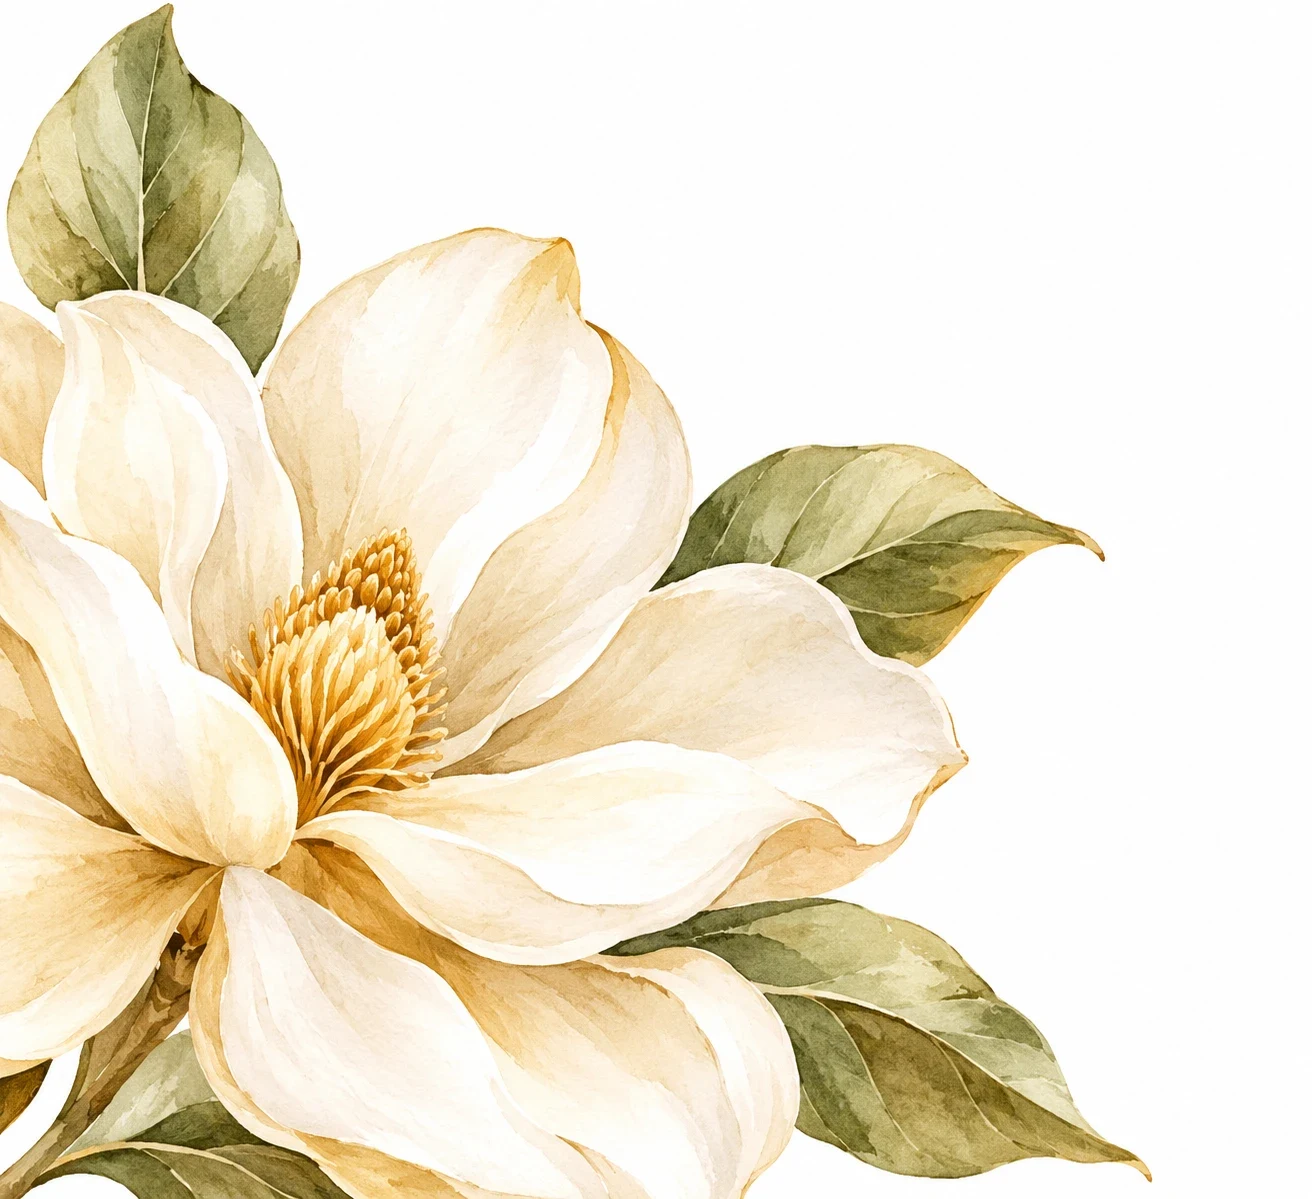
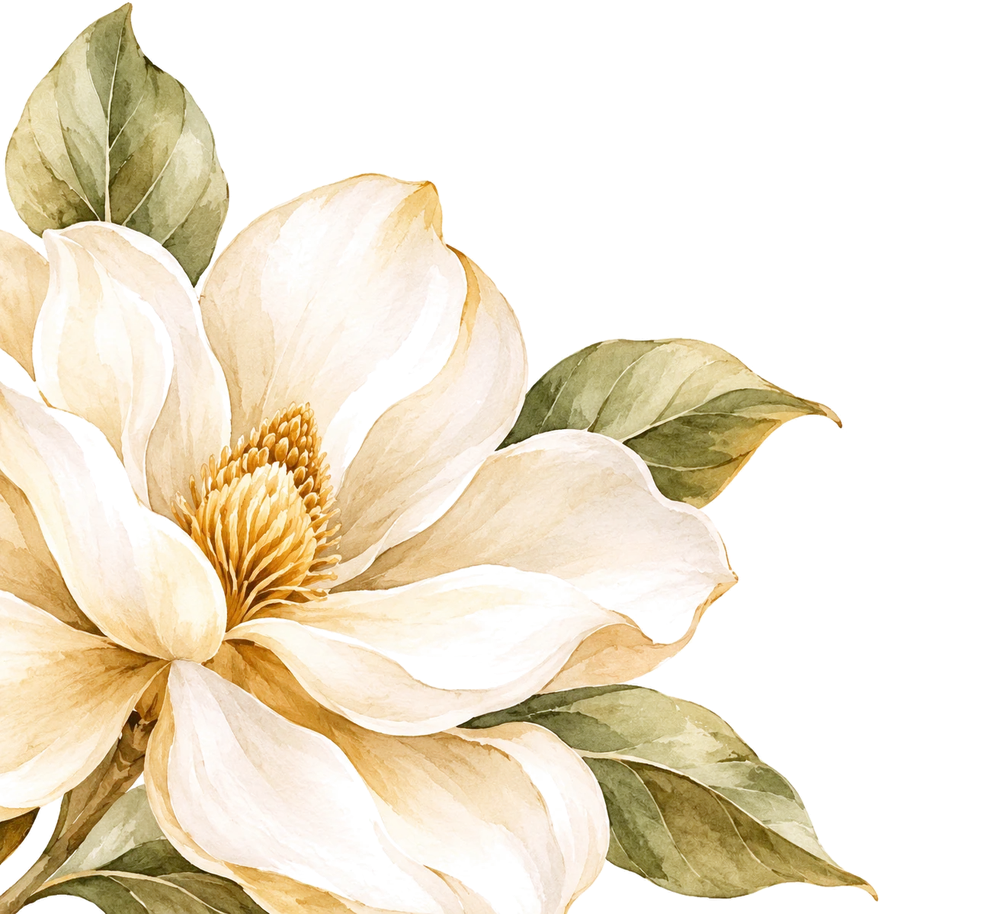
Fix white background on images

Changed region(s): [[0.279, 0.4595, 0.31, 0.5208], [0.217, 0.4902, 0.248, 0.5208]]

diff --git a/index.html b/index.html
@@ -20,7 +20,7 @@ body.locked{overflow:hidden}
 
 /* ---------- shared ---------- */
 .frame{position:relative;container-type:inline-size;margin:0 auto}
-.frame img.border{display:block;width:100%;height:auto;mix-blend-mode:multiply}
+.frame img.border{display:block;width:100%;height:auto}
 .names{position:absolute;inset:0;display:flex;flex-direction:column;align-items:center;justify-content:center;text-align:center;
   font-family:var(--serif);font-style:italic;font-weight:600;font-size:10.4cqw;line-height:1.08;color:var(--gold)}
 .names .amp{font-family:var(--script);font-style:normal;font-weight:400;font-size:.8em;line-height:1;margin:.12em 0;color:var(--gold-d)}
@@ -57,7 +57,7 @@ section{position:relative;padding:54px 28px;text-align:center}
 .title::before,.title::after{content:"";flex:0 0 clamp(14px,6vw,38px);height:1px;background:var(--gold);transform:scaleX(0);transition:transform 1.2s .35s ease}
 .title::before{transform-origin:right}.title::after{transform-origin:left}
 .title.in::before,.title.in::after{transform:scaleX(1)}
-.floral{position:absolute;pointer-events:none;height:auto;mix-blend-mode:multiply}
+.floral{position:absolute;pointer-events:none;height:auto}
 
 /* hero */
 .hero{padding-top:42px}
@@ -68,7 +68,7 @@ section{position:relative;padding:54px 28px;text-align:center}
 .lead{font-style:italic;font-weight:600;font-size:27px;line-height:1.4;color:var(--gold)}
 .info{overflow:hidden;background:radial-gradient(ellipse 70% 40% at 50% 38%,rgba(230,201,140,.22),transparent 70%)}
 .info{padding-bottom:130px}
-.info .corner-img{position:absolute;pointer-events:none;mix-blend-mode:multiply;width:118px;height:auto}
+.info .corner-img{position:absolute;pointer-events:none;width:118px;height:auto}
 .info .title{font-size:clamp(17px,5vw,22px);gap:10px}
 .orn-row{display:flex;align-items:center;justify-content:center;gap:14px;color:var(--gold);font-size:26px;margin:-6px 0 10px}
 .orn-row i{flex:0 0 60px;height:1px;background:linear-gradient(90deg,transparent,var(--gold))}
@@ -112,7 +112,7 @@ section{position:relative;padding:54px 28px;text-align:center}
 .count b{display:block;font-weight:600;font-size:32px;line-height:1.1;color:var(--gold-d)}
 .count span{font-weight:700;font-size:12px;letter-spacing:.16em;text-transform:uppercase}
 .cal{position:relative;width:min(100%,460px);aspect-ratio:1448/1086;padding:9% 17%;margin:0 auto;display:flex;flex-direction:column;justify-content:center}
-.cal::before{content:"";position:absolute;inset:0;background:url(assets/cal-frame.webp) center/100% 100% no-repeat;mix-blend-mode:multiply;pointer-events:none}
+.cal::before{content:"";position:absolute;inset:0;background:url(assets/cal-frame.webp?v=2) center/100% 100% no-repeat;pointer-events:none}
 .cal>*{position:relative}
 .cal h4{font-weight:700;font-size:19px;letter-spacing:.04em;color:var(--olive);margin-bottom:4px}
 .cal .grid{display:grid;grid-template-columns:repeat(7,1fr);gap:2px 0;font-size:15px;font-weight:600;color:var(--olive)}
@@ -121,7 +121,7 @@ section{position:relative;padding:54px 28px;text-align:center}
 .cal .grid .hit{color:#fff;position:relative;isolation:isolate}
 .cal .grid .hit::before{content:"♥";position:absolute;left:50%;top:50%;transform:translate(-50%,-52%);font-size:38px;line-height:1;color:#bf9156;z-index:-1}
 .lnk{background:none;border:0;border-bottom:1px solid var(--olive);color:var(--olive);font-family:var(--serif);font-weight:700;font-size:17px;cursor:pointer;margin-top:14px;padding:0 2px}
-.flourish{display:block;width:280px;height:auto;margin:34px auto 0;mix-blend-mode:multiply}
+.flourish{display:block;width:280px;height:auto;margin:34px auto 0}
 
 /* venue */
 .venue-name{font-weight:700;font-size:32px;line-height:1.15;color:var(--olive);margin:2px 0 18px}
@@ -192,7 +192,7 @@ footer p{font-style:italic;font-weight:600;font-size:24px;line-height:1.4;color:
   <div class="cv">
     <div class="kicker">You are invited</div>
     <div class="frame">
-      <img class="border" src="assets/frame.webp" alt="">
+      <img class="border" src="assets/frame.webp?v=2" alt="">
       <div class="names">Abdulrahman<span class="amp">&amp;</span>Buthaina</div>
     </div>
     <div class="cdate">
@@ -208,18 +208,18 @@ footer p{font-style:italic;font-weight:600;font-size:24px;line-height:1.4;color:
 <main id="page">
 
   <section class="hero">
-    <img class="floral" src="assets/magnolia-b.webp" alt="" style="top:-20px;right:-10px;width:170px;opacity:.38;transform:scaleX(-1)">
+    <img class="floral" src="assets/magnolia-b.webp?v=2" alt="" style="top:-20px;right:-10px;width:170px;opacity:.38;transform:scaleX(-1)">
     <div class="eyebrow reveal">Welcome to our engagement</div>
     <div class="frame reveal">
-      <img class="border" src="assets/frame.webp" alt="">
+      <img class="border" src="assets/frame.webp?v=2" alt="">
       <div class="names">Abdulrahman<span class="amp">&amp;</span>Buthaina</div>
     </div>
-    <img class="floral" src="assets/sprig.webp" alt="" style="bottom:6px;left:-10px;width:165px">
+    <img class="floral" src="assets/sprig.webp?v=2" alt="" style="bottom:6px;left:-10px;width:165px">
   </section>
 
   <section class="info">
-    <img class="corner-img floral" src="assets/corner-tl.webp" alt="" style="top:0;left:0">
-    <img class="corner-img floral" src="assets/corner-br.webp" alt="" style="bottom:0;right:0">
+    <img class="corner-img floral" src="assets/corner-tl.webp?v=2" alt="" style="top:0;left:0">
+    <img class="corner-img floral" src="assets/corner-br.webp?v=2" alt="" style="bottom:0;right:0">
     <div class="title reveal">Engagement Info</div>
     <div class="orn-row reveal" data-a="zoom" data-d=".1s"><i></i>❦<i></i></div>
     <p class="lead reveal" data-a="blur" data-d=".15s">With love, we invite you<br>to celebrate our engagement<br>with us</p>
@@ -251,11 +251,11 @@ footer p{font-style:italic;font-weight:600;font-size:24px;line-height:1.4;color:
       <div><b id="cm">0</b><span>Min</span></div><div><b id="cs">0</b><span>Sec</span></div>
     </div>
     <div class="cal reveal"><h4 id="calTitle"></h4><div class="grid" id="calGrid"></div></div>
-    <img class="flourish" src="assets/flourish.webp" alt="">
+    <img class="flourish" src="assets/flourish.webp?v=2" alt="">
   </section>
 
   <section class="venue">
-    <img class="floral" src="assets/magnolia-a.webp" alt="" style="top:0;left:0;width:130px;opacity:.38;-webkit-mask-image:linear-gradient(to bottom,#000 55%,transparent);mask-image:linear-gradient(to bottom,#000 55%,transparent)">
+    <img class="floral" src="assets/magnolia-a.webp?v=2" alt="" style="top:0;left:0;width:130px;opacity:.38;-webkit-mask-image:linear-gradient(to bottom,#000 55%,transparent);mask-image:linear-gradient(to bottom,#000 55%,transparent)">
     <div class="title reveal">Engagement Venue</div>
     <div class="venue-name reveal">Ce La Vie Nile Lotus</div>
     <div class="map reveal">
